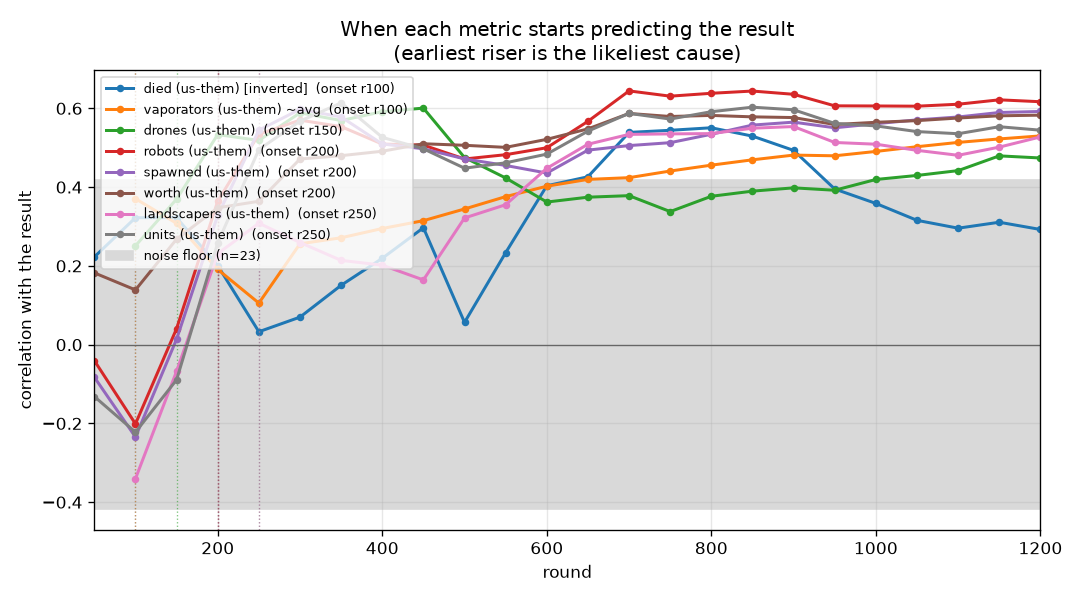
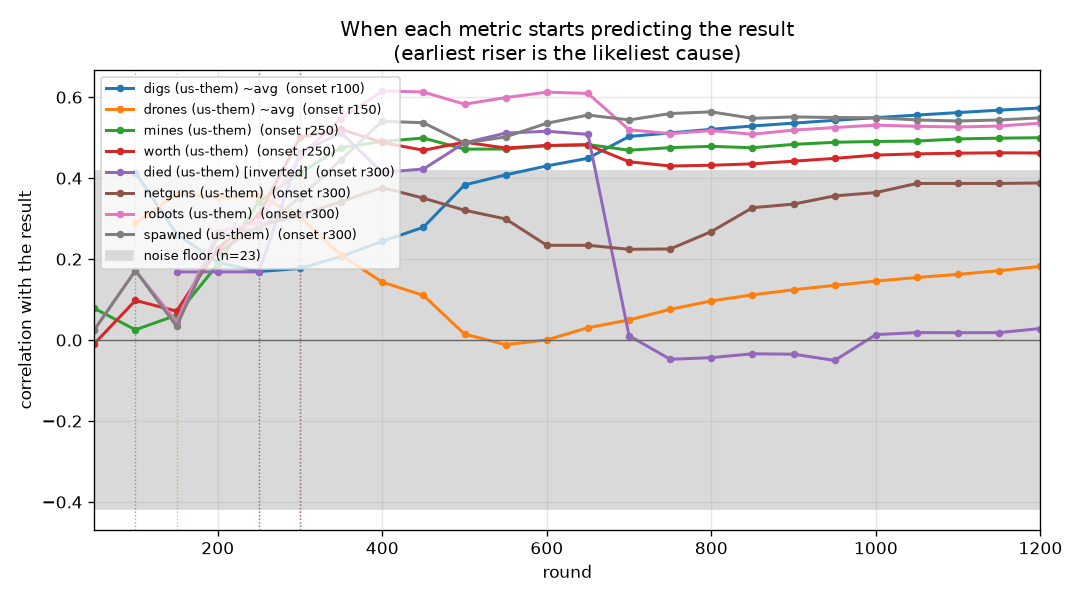
Block 37 (g_iter5 7/48); block 38 launched
Claude-Session: https://claude.ai/code/session_01CTUHPRaZ9DbYUkpWKYf2Y2

diff --git a/progress/ONSET.md b/progress/ONSET.md
@@ -1,6 +1,6 @@
 # Which metric starts predicting the result first
 
-23 games, 11 wins. Noise floor about 0.42; a correlation inside that band is not evidence.
+23 games, 7 wins. Noise floor about 0.42; a correlation inside that band is not evidence.
 
 Every metric is oriented so **higher is better for us**, so a positive correlation always means
 "this being better goes with winning". `~avg` is the running mean over all rounds so far rather than
@@ -12,46 +12,46 @@ See `progress/METRICS.md` for how each quantity is computed.
 
 | onset | anti | metric | peak corr | r100 | r200 | r300 | r400 | r600 | r900 |
 |---|---|---|---|---|---|---|---|---|---|
-| r100 | - | died (us-them) [inverted] | +0.55 | +0.32 | +0.20 | +0.07 | +0.22 | +0.40 | +0.49 |
-| r100 | - | died (us-them) [inverted] ~avg | +0.53 | +0.30 | +0.30 | +0.07 | +0.15 | +0.28 | +0.53 |
-| r100 | - | vaporators (us-them) ~avg | +0.53 | +0.37 | +0.19 | +0.26 | +0.29 | +0.40 | +0.48 |
-| r150 | - | drones (us-them) | +0.60 | +0.25 | +0.53 | +0.59 | +0.59 | +0.36 | +0.40 |
-| r150 | - | drones (us-them) ~avg | +0.62 | +0.25 | +0.44 | +0.58 | +0.60 | +0.53 | +0.44 |
-| r200 | - | robots (us-them) | +0.64 | -0.20 | +0.36 | +0.57 | +0.51 | +0.50 | +0.64 |
-| r200 | - | spawned (us-them) | +0.60 | -0.23 | +0.33 | +0.60 | +0.51 | +0.44 | +0.56 |
-| r200 | - | worth (us-them) | +0.59 | +0.14 | +0.35 | +0.47 | +0.49 | +0.52 | +0.58 |
-| r250 | - | landscapers (us-them) | +0.55 | -0.34 | +0.23 | +0.26 | +0.20 | +0.45 | +0.55 |
-| r250 | - | units (us-them) | +0.61 | -0.22 | +0.26 | +0.57 | +0.53 | +0.48 | +0.60 |
-| r250 | - | worth (us-them) ~avg | +0.56 | +0.16 | +0.29 | +0.42 | +0.46 | +0.51 | +0.55 |
-| r300 | - | cov (us-them) | +0.56 | -0.03 | +0.09 | +0.33 | +0.38 | +0.56 | +0.49 |
-| r300 | - | miners (us-them) | +0.47 | -0.05 | -0.08 | +0.34 | +0.28 | +0.28 | +0.43 |
-| r300 | - | mines (us-them) | +0.55 | +0.03 | +0.05 | +0.49 | +0.54 | +0.41 | +0.39 |
-| r300 | - | mines (us-them) ~avg | +0.52 | +0.06 | +0.05 | +0.41 | +0.49 | +0.51 | +0.43 |
-| r300 | - | robots (us-them) ~avg | +0.60 | -0.16 | +0.13 | +0.44 | +0.50 | +0.51 | +0.59 |
-| r300 | - | spawned (us-them) ~avg | +0.55 | -0.20 | +0.09 | +0.46 | +0.52 | +0.50 | +0.51 |
-| r300 | - | units (us-them) ~avg | +0.56 | -0.22 | +0.01 | +0.36 | +0.49 | +0.51 | +0.56 |
-| r400 | - | pickups (us-them) | +0.49 | . | -0.01 | +0.06 | +0.40 | +0.49 | +0.36 |
-| r400 | - | vaporators (us-them) | +0.56 | +0.37 | +0.05 | +0.22 | +0.31 | +0.48 | +0.54 |
-| r450 | - | cov (us-them) ~avg | +0.52 | -0.01 | +0.03 | +0.19 | +0.29 | +0.42 | +0.52 |
-| r450 | - | pickups (us-them) ~avg | +0.50 | . | -0.01 | +0.01 | +0.24 | +0.49 | +0.43 |
-| r500 | - | moves (us-them) | +0.50 | -0.02 | -0.02 | +0.14 | +0.23 | +0.40 | +0.49 |
-| r550 | - | miners (us-them) ~avg | +0.42 | -0.09 | -0.12 | +0.15 | +0.27 | +0.31 | +0.35 |
-| r600 | - | landscapers (us-them) ~avg | +0.51 | -0.34 | -0.02 | +0.10 | +0.19 | +0.33 | +0.49 |
-| r600 | - | moves (us-them) ~avg | +0.49 | +0.02 | -0.01 | +0.07 | +0.15 | +0.31 | +0.45 |
-| r750 | r150 | digs (us-them) | +0.52 | -0.04 | -0.37 | -0.18 | -0.02 | +0.17 | +0.45 |
-| r750 | r150 | dirtDeps (us-them) | +0.50 | -0.03 | -0.37 | -0.21 | -0.08 | +0.13 | +0.42 |
-| r1050 | r150 | digs (us-them) ~avg | +0.40 | -0.04 | -0.38 | -0.30 | -0.15 | +0.01 | +0.27 |
-| r1100 | r150 | dirtDeps (us-them) ~avg | +0.37 | -0.03 | -0.37 | -0.31 | -0.19 | -0.04 | +0.23 |
-| - | r700 | aba (us-them) [inverted] | -0.56 | -0.31 | -0.20 | -0.01 | -0.09 | -0.18 | -0.51 |
-| - | r800 | aba (us-them) [inverted] ~avg | -0.52 | -0.24 | -0.19 | -0.06 | -0.08 | -0.19 | -0.38 |
+| r100 | - | digs (us-them) ~avg | +0.57 | +0.41 | +0.19 | +0.18 | +0.24 | +0.43 | +0.54 |
+| r150 | - | drones (us-them) ~avg | +0.36 | +0.29 | +0.35 | +0.30 | +0.14 | +0.00 | +0.12 |
+| r250 | - | mines (us-them) | +0.50 | +0.03 | +0.19 | +0.41 | +0.49 | +0.48 | +0.48 |
+| r250 | - | worth (us-them) | +0.52 | +0.10 | +0.23 | +0.50 | +0.49 | +0.48 | +0.44 |
+| r300 | - | died (us-them) [inverted] | +0.52 | . | +0.17 | +0.46 | +0.41 | +0.52 | -0.03 |
+| r300 | - | died (us-them) [inverted] ~avg | +0.53 | . | +0.17 | +0.44 | +0.49 | +0.52 | +0.24 |
+| r300 | - | netguns (us-them) | +0.39 | . | +0.22 | +0.31 | +0.38 | +0.23 | +0.34 |
+| r300 | - | robots (us-them) | +0.62 | +0.17 | +0.27 | +0.45 | +0.62 | +0.61 | +0.52 |
+| r300 | - | robots (us-them) ~avg | +0.58 | +0.15 | +0.17 | +0.30 | +0.45 | +0.56 | +0.55 |
+| r300 | - | spawned (us-them) | +0.56 | +0.17 | +0.26 | +0.35 | +0.54 | +0.54 | +0.55 |
+| r300 | - | units (us-them) | +0.59 | +0.17 | +0.18 | +0.30 | +0.57 | +0.59 | +0.48 |
+| r300 | - | worth (us-them) ~avg | +0.47 | +0.08 | +0.13 | +0.32 | +0.43 | +0.47 | +0.45 |
+| r350 | - | aba (us-them) [inverted] | +0.42 | -0.12 | +0.00 | +0.28 | +0.36 | +0.24 | +0.00 |
+| r350 | - | landscapers (us-them) | +0.75 | +0.23 | +0.06 | +0.21 | +0.53 | +0.75 | +0.68 |
+| r350 | - | mines (us-them) ~avg | +0.49 | +0.04 | +0.09 | +0.26 | +0.38 | +0.46 | +0.48 |
+| r350 | - | netguns (us-them) ~avg | +0.38 | . | +0.22 | +0.29 | +0.33 | +0.35 | +0.35 |
+| r350 | - | pickups (us-them) | +0.53 | +0.18 | +0.14 | +0.28 | +0.39 | +0.50 | +0.50 |
+| r350 | - | pickups (us-them) ~avg | +0.52 | +0.18 | +0.17 | +0.26 | +0.35 | +0.42 | +0.52 |
+| r350 | - | spawned (us-them) ~avg | +0.55 | +0.15 | +0.16 | +0.26 | +0.38 | +0.46 | +0.54 |
+| r400 | - | digs (us-them) | +0.59 | +0.41 | +0.14 | +0.18 | +0.31 | +0.49 | +0.55 |
+| r400 | - | landscapers (us-them) ~avg | +0.72 | +0.23 | +0.06 | +0.13 | +0.32 | +0.59 | +0.71 |
+| r400 | - | units (us-them) ~avg | +0.55 | +0.08 | +0.10 | +0.19 | +0.35 | +0.51 | +0.53 |
+| r500 | - | aba (us-them) [inverted] ~avg | +0.39 | -0.02 | -0.03 | +0.15 | +0.25 | +0.37 | +0.20 |
+| r500 | - | dirtDeps (us-them) | +0.58 | +0.39 | +0.06 | +0.11 | +0.20 | +0.45 | +0.53 |
+| r550 | - | cov (us-them) | +0.47 | +0.17 | -0.05 | +0.05 | +0.19 | +0.32 | +0.44 |
+| r550 | - | dirtDeps (us-them) ~avg | +0.55 | +0.39 | +0.11 | +0.10 | +0.15 | +0.36 | +0.50 |
+| r800 | - | cov (us-them) ~avg | +0.40 | +0.22 | +0.04 | +0.03 | +0.08 | +0.17 | +0.34 |
+| r800 | - | vaporators (us-them) | +0.42 | -0.32 | -0.13 | +0.02 | +0.00 | +0.24 | +0.39 |
+| r1000 | r100 | vaporators (us-them) ~avg | +0.38 | -0.32 | -0.19 | -0.13 | -0.05 | +0.09 | +0.25 |
+| - | - | drones (us-them) | +0.34 | +0.29 | +0.27 | +0.17 | +0.01 | +0.03 | +0.19 |
 | - | - | drowned (us-them) [inverted] | . | . | . | . | . | . | . |
 | - | - | drowned (us-them) [inverted] ~avg | . | . | . | . | . | . | . |
-| - | - | hqBuried (us-them) [inverted] | +0.19 | . | . | . | . | . | . |
-| - | - | hqBuried (us-them) [inverted] ~avg | +0.27 | . | . | . | . | . | +0.19 |
-| - | - | netguns (us-them) | -0.20 | . | . | . | . | +0.00 | +0.02 |
-| - | - | netguns (us-them) ~avg | -0.20 | . | . | . | . | -0.07 | +0.03 |
-| - | - | soup (us-them) | +0.29 | +0.22 | -0.07 | -0.10 | +0.20 | -0.06 | -0.14 |
-| - | - | soup (us-them) ~avg | +0.27 | +0.27 | +0.10 | -0.02 | +0.03 | +0.05 | -0.12 |
+| - | - | hqBuried (us-them) [inverted] | +0.24 | +0.24 | . | +0.17 | +0.17 | . | . |
+| - | - | hqBuried (us-them) [inverted] ~avg | +0.24 | +0.24 | +0.17 | +0.17 | +0.19 | +0.17 | +0.16 |
+| - | - | miners (us-them) | +0.24 | -0.10 | +0.13 | +0.17 | +0.22 | +0.22 | -0.06 |
+| - | - | miners (us-them) ~avg | +0.14 | -0.14 | -0.02 | +0.04 | +0.11 | +0.12 | +0.06 |
+| - | - | moves (us-them) | +0.25 | -0.16 | -0.16 | -0.17 | -0.13 | +0.01 | +0.19 |
+| - | - | moves (us-them) ~avg | +0.20 | -0.11 | -0.14 | -0.17 | -0.16 | -0.13 | +0.14 |
+| - | - | soup (us-them) | +0.35 | -0.14 | -0.02 | +0.16 | +0.21 | -0.06 | -0.23 |
+| - | - | soup (us-them) ~avg | +0.32 | -0.20 | -0.00 | +0.22 | +0.25 | +0.14 | -0.07 |
 
 **Reading it.** Earliest onset is the first place to look: temporal precedence is the one causal hint a
 correlation can honestly give. Late-onset metrics are usually the scoreboard rather than the cause -- by then

diff --git a/TRAINING_LOG.md b/TRAINING_LOG.md
@@ -1079,6 +1079,14 @@ vs g_iter3: Squares **8 seats, ring 2387 vs 2251 (+6%)** where g_iter5 alone sco
 TwoLakeLand 8 seats, ring 1959 vs 1869 (+5%). Both maps above the incumbent line. Gate `gate26`
 (`cand25b` vs g_iter5, mirror, cap 240) launched beside blocks 36 and 37.
 
+## Block 37 -- g_iter5 against the challenge pool (run block37, 2026-09-24)
+
+48 games: **7/48 (14.6%)**; the first block of the new incumbent (g_iter3's single blocks ranged
+4-14 of 48 around 21.6%). Losses by end round: 5 before r500, 2 by r1000, 19 between r1000 and
+r2000, 9 by r3000, 6 after -- the raid window holds 46% of the losses, as before. Provisional
+policy applies: withdraw if the Wilson upper bound of the accumulated g_iter5 blocks falls below
+g_iter3's 21.6%.
+
 ## Block 35 -- g_iter3 against the challenge pool (run block35, 2026-09-24)
 
 48 games: **12/48 (25%)**; cumulative for g_iter3 244/1116 (21.8%). Elo 1329, rank 65 of 66.
